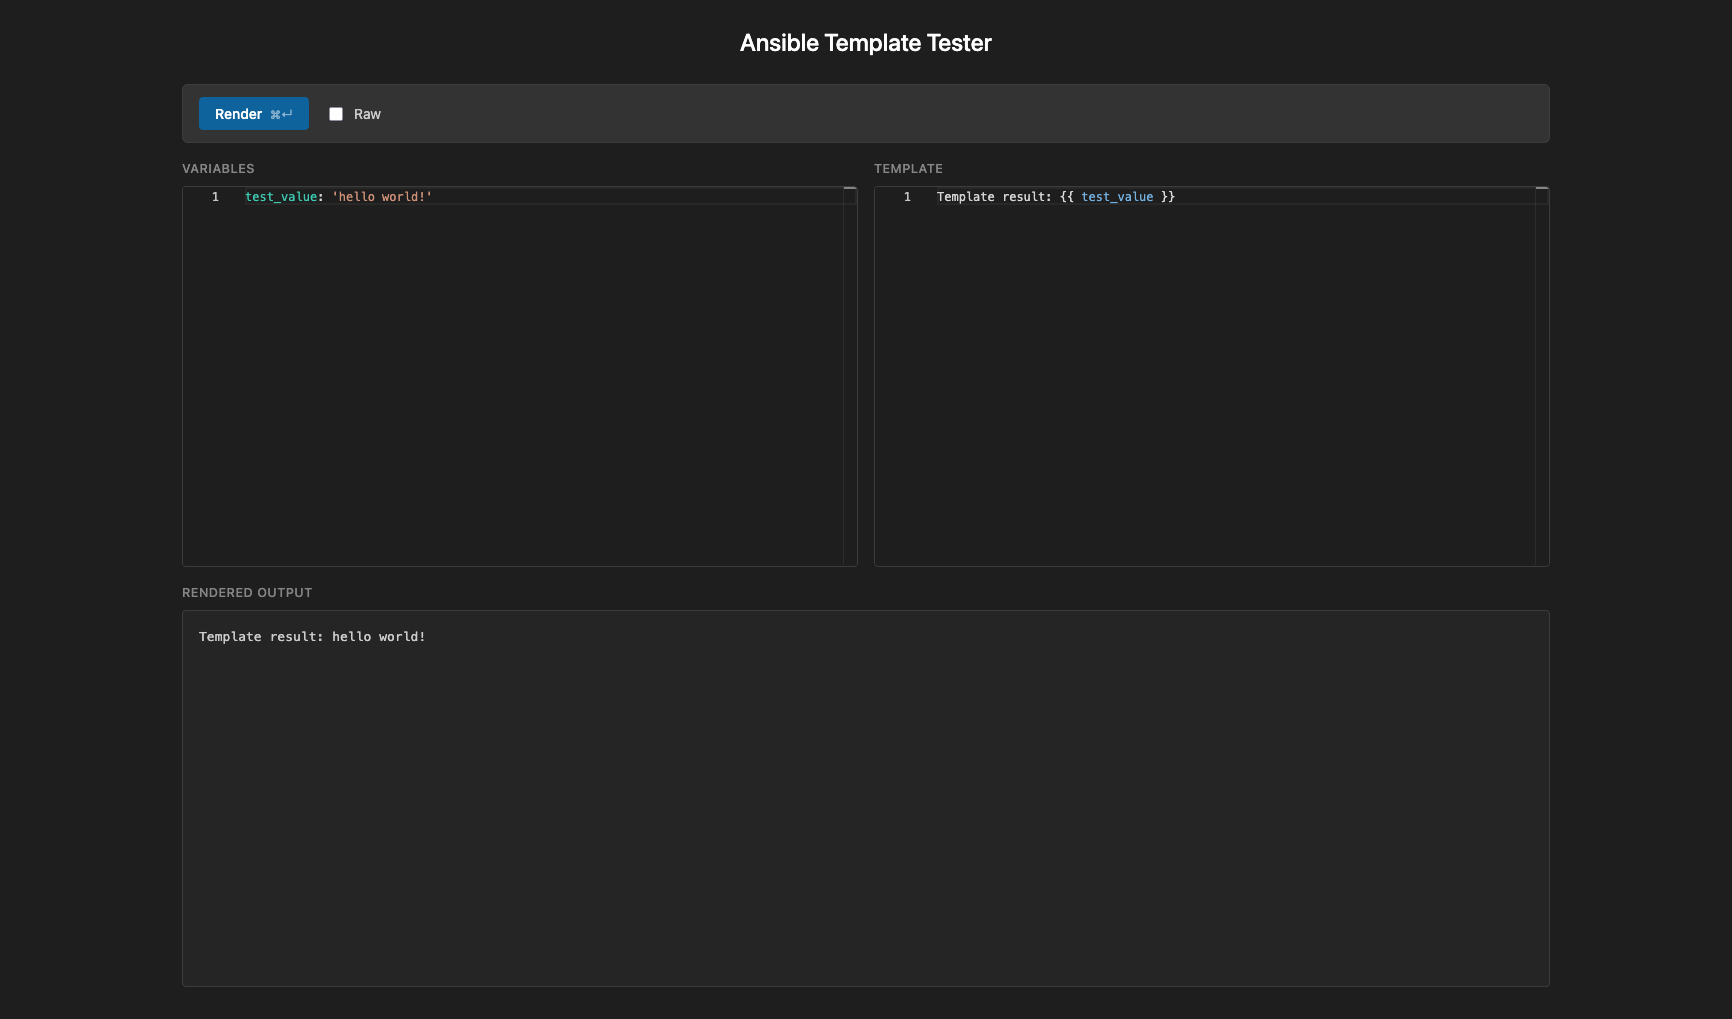
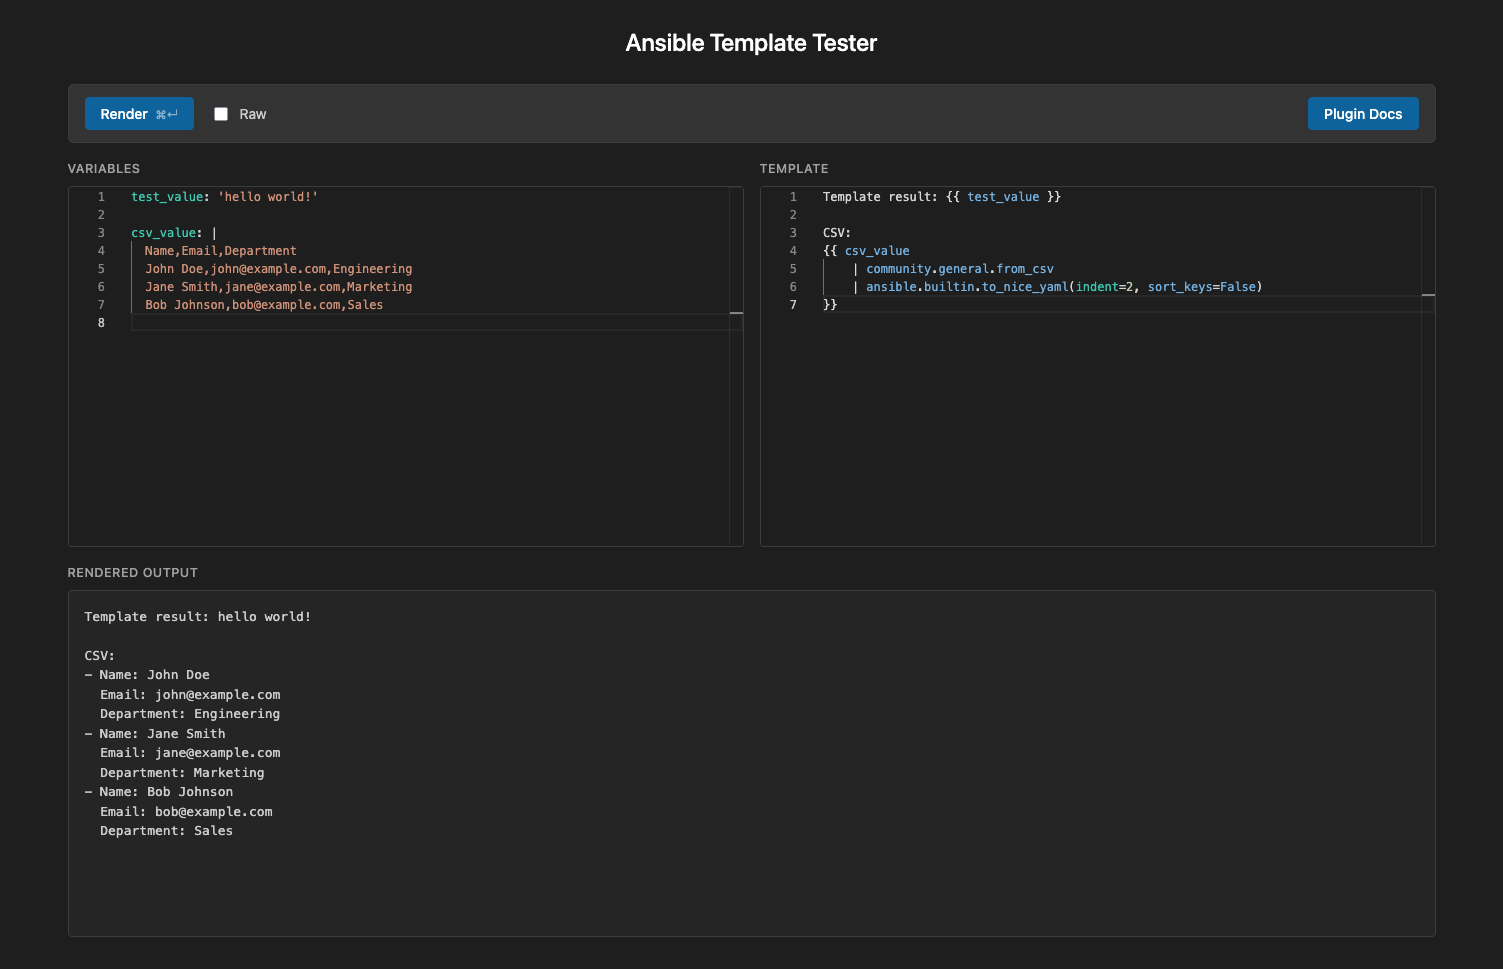
docs: add screenshots, demo

diff --git a/README.md b/README.md
@@ -4,11 +4,15 @@ Web UI for testing Ansible/Jinja2 templates. Paste a template and variables, get
 
 **Features:**
 
-- Monaco editor panes with syntax highlighting
+- Monaco editor panes with syntax highlighting and completion for plugin names and arguments
+- Built-in documentation for all Ansible and Jinja2 plugins
 - Use your own custom Ansible plugins (filter, lookup, test)
 - Install Ansible plugins from collections on Ansible Galaxy
 
-![Screenshot](.github/web.png)
+| Template example                                 | Plugin list & documentation                      |
+| ------------------------------------------------ | ------------------------------------------------ |
+| ![Web template screenshot](.github/web_main.png) | ![Plugin list demo](.github/web_plugin_docs.gif) |
+
 
 > [!WARNING]
 > 🤖 **Vibe coded.**
@@ -43,20 +47,20 @@ docker run -d \
 
 All configuration is via environment variables.
 
-| Variable                     | Default                                        | Description                                                                   |
-| ---------------------------- | ---------------------------------------------- | ----------------------------------------------------------------------------- |
-| `DOCKER_IMAGE`               | `ghcr.io/tigattack/ansible-template-renderer` | Docker image used for the render container                                    |
-| `HOST`                       | `127.0.0.1`                                    | Bind address (dev server only)                                                |
-| `PORT`                       | `8080`                                         | Listen port (dev server only)                                                 |
-| `DEBUG`                      | `false`                                        | Enable hot reload (dev server only)                                          |
-| `LOG_FORMAT`                 | _(auto)_                                       | Log output format: `pretty`, `json`, or auto-detect by TTY                    |
-| `CONTAINER_TIMEOUT`          | `180`                                          | Max seconds to wait for a render container before timing out                  |
-| `IMAGE_CACHE_TTL`            | `300`                                          | Seconds between re-pulling the render image. Set to `0` to pull every request |
-| `CONTAINER_MEM_LIMIT`        | `96m`                                          | Max memory for render container                                               |
-| `FILTER_PLUGIN_PATH`         | `/plugins/filter`                              | Container path to custom Jinja2 filter plugins (see [Custom Plugins](#custom-plugins)) |
-| `LOOKUP_PLUGIN_PATH`         | `/plugins/lookup`                              | Container path to custom lookup plugins (see [Custom Plugins](#custom-plugins))    |
-| `TEST_PLUGIN_PATH`           | `/plugins/test`                                | Container path to custom Jinja2 test plugins (see [Custom Plugins](#custom-plugins)) |
-| `ANSIBLE_GALAXY_COLLECTIONS` | _(empty)_                                      | Space-separated Galaxy collections (cached in Docker volume)                  |
+| Variable                     | Default                                       | Description                                                                            |
+| ---------------------------- | --------------------------------------------- | -------------------------------------------------------------------------------------- |
+| `DOCKER_IMAGE`               | `ghcr.io/tigattack/ansible-template-renderer` | Docker image used for the render container                                             |
+| `HOST`                       | `127.0.0.1`                                   | Bind address (dev server only)                                                         |
+| `PORT`                       | `8080`                                        | Listen port (dev server only)                                                          |
+| `DEBUG`                      | `false`                                       | Enable hot reload (dev server only)                                                    |
+| `LOG_FORMAT`                 | _(auto)_                                      | Log output format: `pretty`, `json`, or auto-detect by TTY                             |
+| `CONTAINER_TIMEOUT`          | `180`                                         | Max seconds to wait for a render container before timing out                           |
+| `IMAGE_CACHE_TTL`            | `300`                                         | Seconds between re-pulling the render image. Set to `0` to pull every request          |
+| `CONTAINER_MEM_LIMIT`        | `96m`                                         | Max memory for render container                                                        |
+| `FILTER_PLUGIN_PATH`         | `/plugins/filter`                             | Container path to custom Jinja2 filter plugins (see [Custom Plugins](#custom-plugins)) |
+| `LOOKUP_PLUGIN_PATH`         | `/plugins/lookup`                             | Container path to custom lookup plugins (see [Custom Plugins](#custom-plugins))        |
+| `TEST_PLUGIN_PATH`           | `/plugins/test`                               | Container path to custom Jinja2 test plugins (see [Custom Plugins](#custom-plugins))   |
+| `ANSIBLE_GALAXY_COLLECTIONS` | _(empty)_                                     | Space-separated Galaxy collections (cached in Docker volume)                           |
 
 ## Custom Plugins
 
